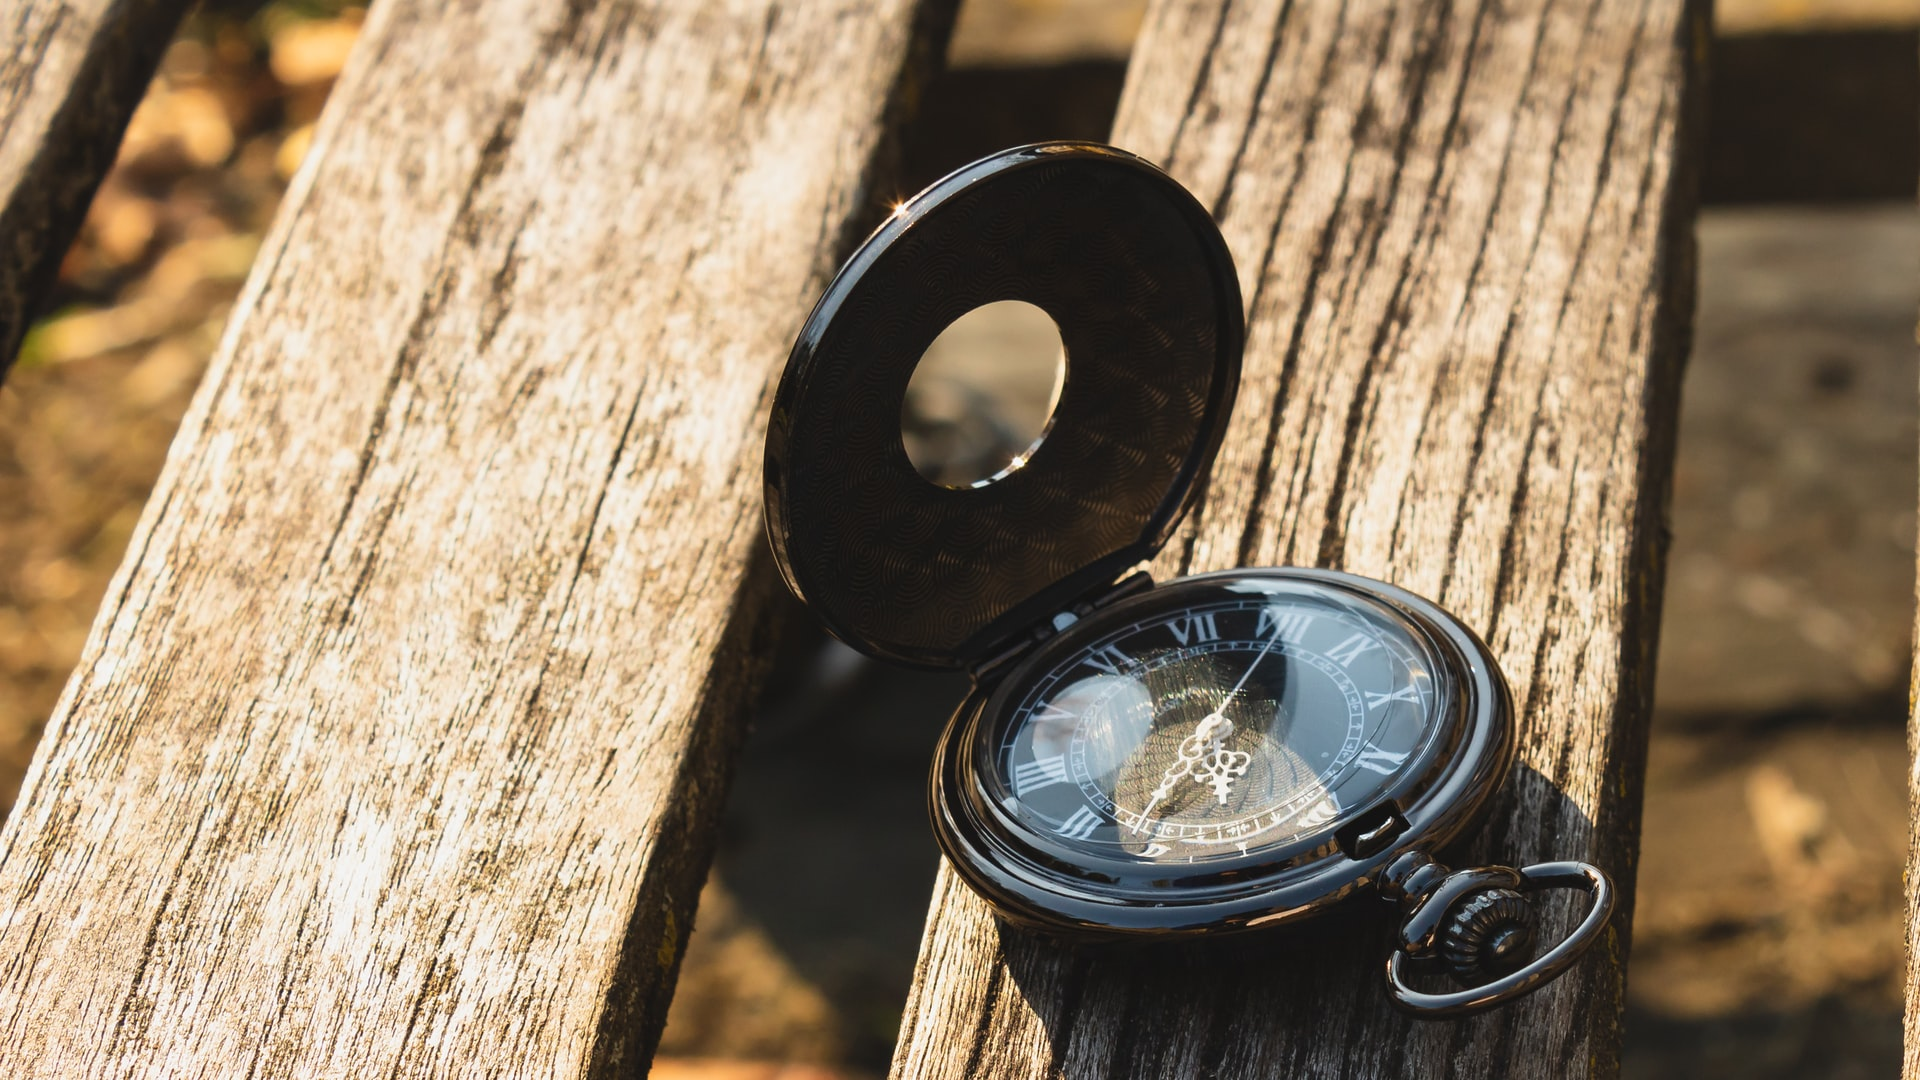
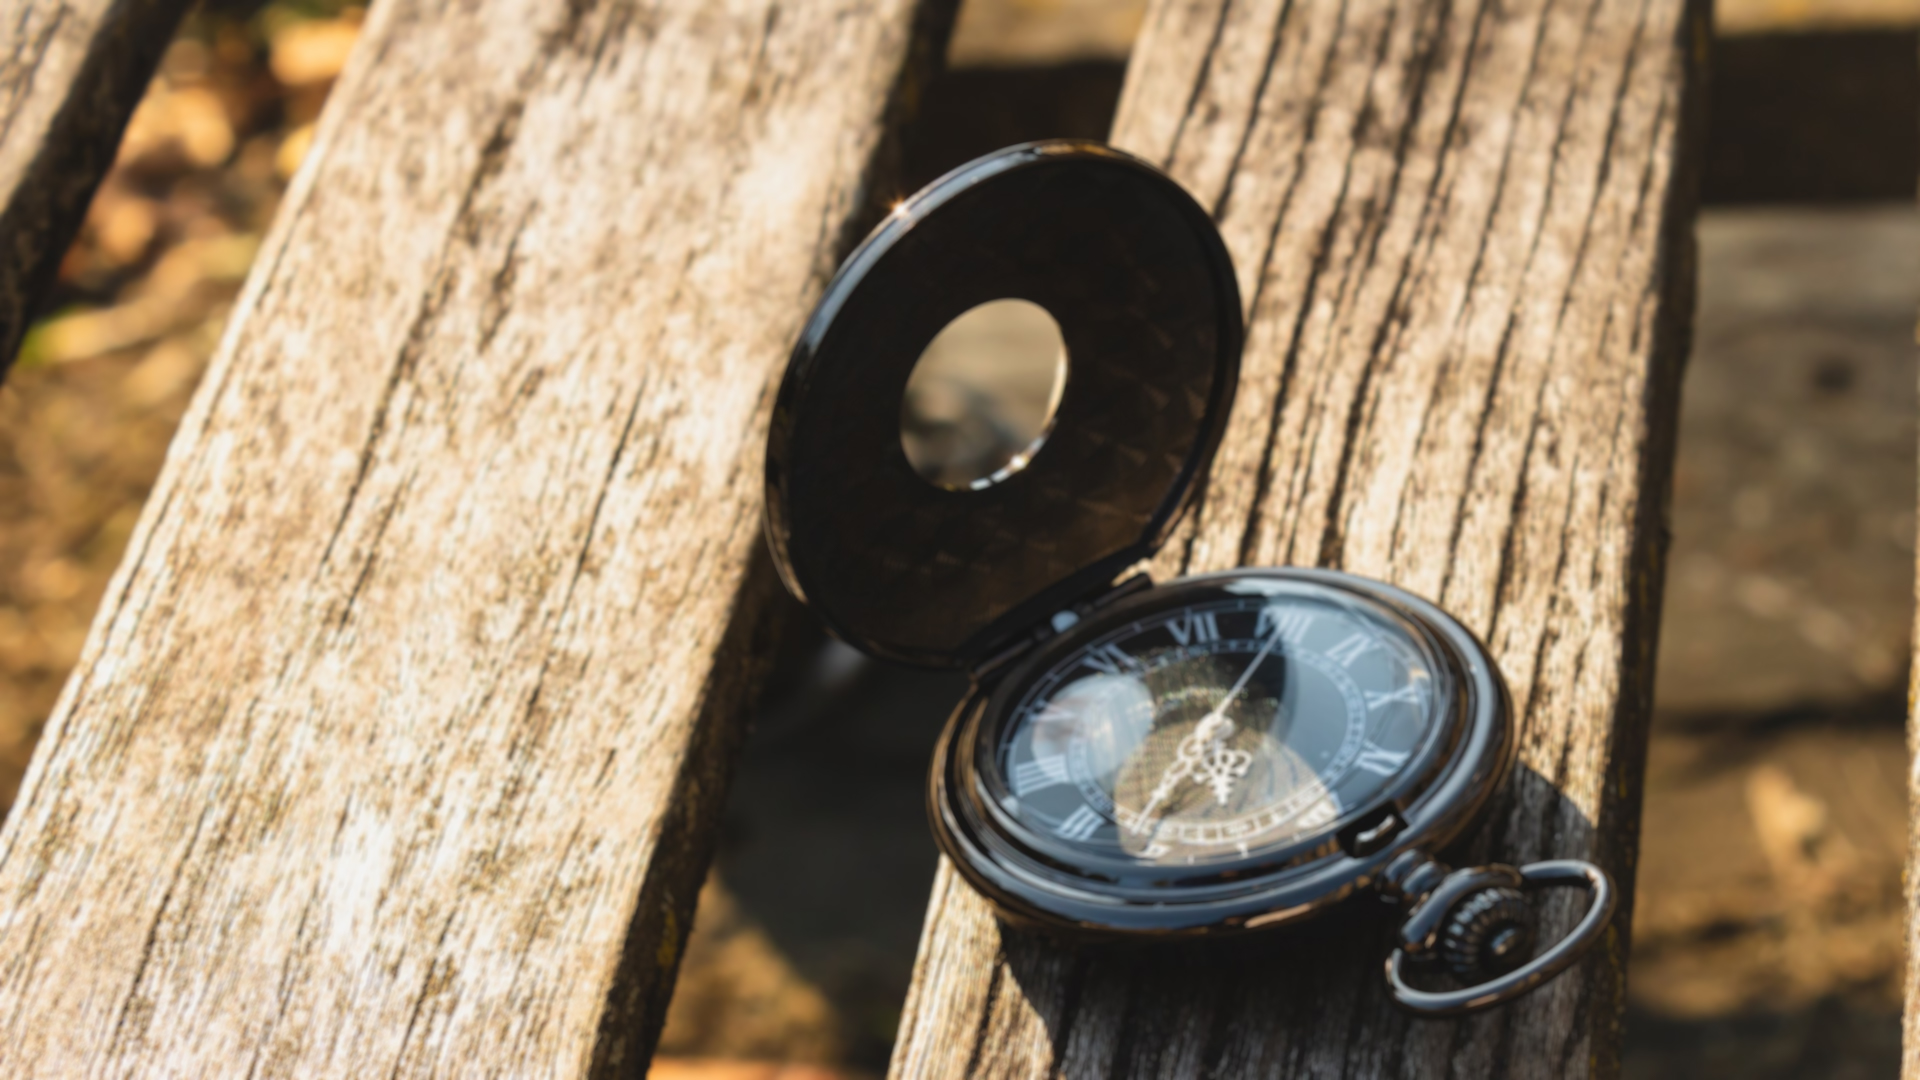
edit background

diff --git a/public/stylesheets/overall.css b/public/stylesheets/overall.css
@@ -1,7 +1,7 @@
 body{
     font-family: 'Open Sans', sans-serif;
     background: url("/images/background.jpg");
-    background-position: 25% 0%;
+    background-position: 16% 0%;
     background-size: cover;
 }
 
